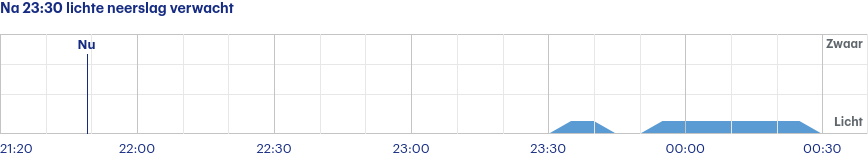
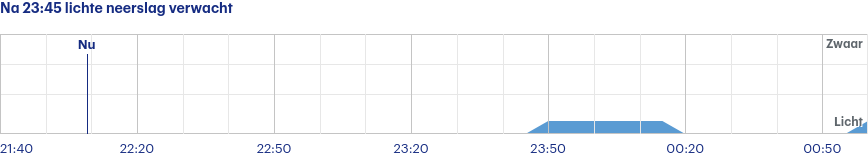
Latest scraping buienradar: Thu Aug 31 20:00:30 UTC 2023

diff --git a/scrapes/buienradar/buienradar-jette-3-uur.md b/scrapes/buienradar/buienradar-jette-3-uur.md
@@ -1,4 +1,4 @@
-Na 23:30 lichte neerslag verwacht
+Na 23:45 lichte neerslag verwacht
 
 ![](buienradar-jette-3-uur.png)
 
